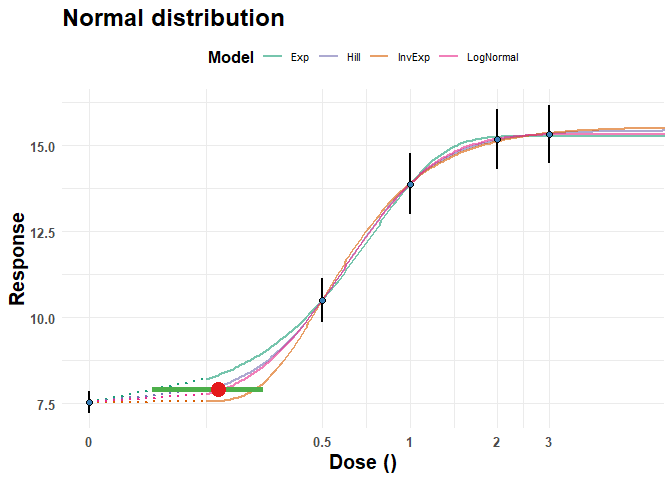
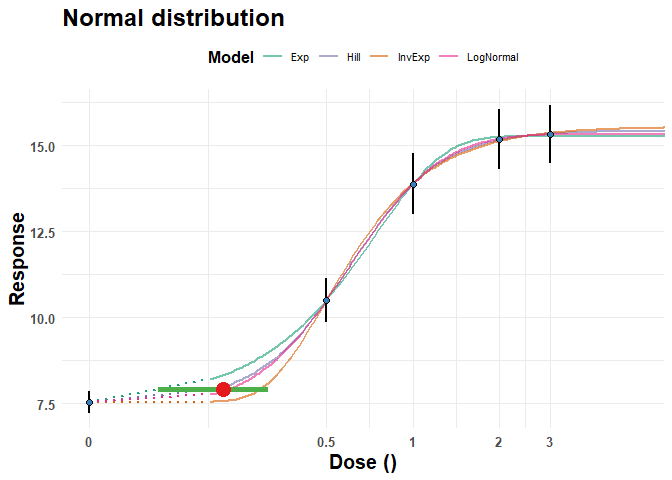
updated README

diff --git a/README.md b/README.md
@@ -17,20 +17,12 @@ estimation. Its two main functions are:
 
 ## Installation
 
-You can install the latest development version (0.2.1) of the R package
+You can install the latest development version (0.2.2) of the R package
 from GitHub:
 
 ``` r
 # install.packages("remotes")
 remotes::install_github("cecilekremer/BMABMDR@testing")
-```
-
-This currently works with the combination of **rstan 2.32.7** and
-**StanHeaders 2.32.10**. If you have a different StanHeaders version,
-you can install the compatible one with:
-
-``` r
-remotes::install_version("StanHeaders", version = "2.32.10", type = "source")
 ```
 
 ### Requirements
@@ -75,13 +67,13 @@ anydoseresponseN(summ.data$x, summ.data$y, summ.data$s, summ.data$n)
 #> For more on GAMLSS look at https://www.gamlss.com/
 #> Type gamlssNews() to see new features/changes/bug fixes.
 #> $bf
-#> Estimated Bayes factor in favor of bridge_SM over bridge_H0: 750498364556829503128828460444260660864404060844828884082000648.00000
+#> [1] 1.335563e-63
 #> 
 #> $bf.message
 #> [1] "Preliminary analysis found insufficient evidence of no dose effect (Bayes factor : 0 in favor of the NULL (no dose effect) model)."
 anydoseresponseLN(summ.data$x, summ.data$y, summ.data$s, summ.data$n)
 #> $bf
-#> Estimated Bayes factor in favor of bridge_SM over bridge_H0: 1162596138617800377222628442884666686602606440604248448006020428.00000
+#> [1] 8.572044e-64
 #> 
 #> $bf.message
 #> [1] "Preliminary analysis found insufficient evidence of no dose effect (Bayes factor : 0 in favor of the NULL (no dose effect) model)."
